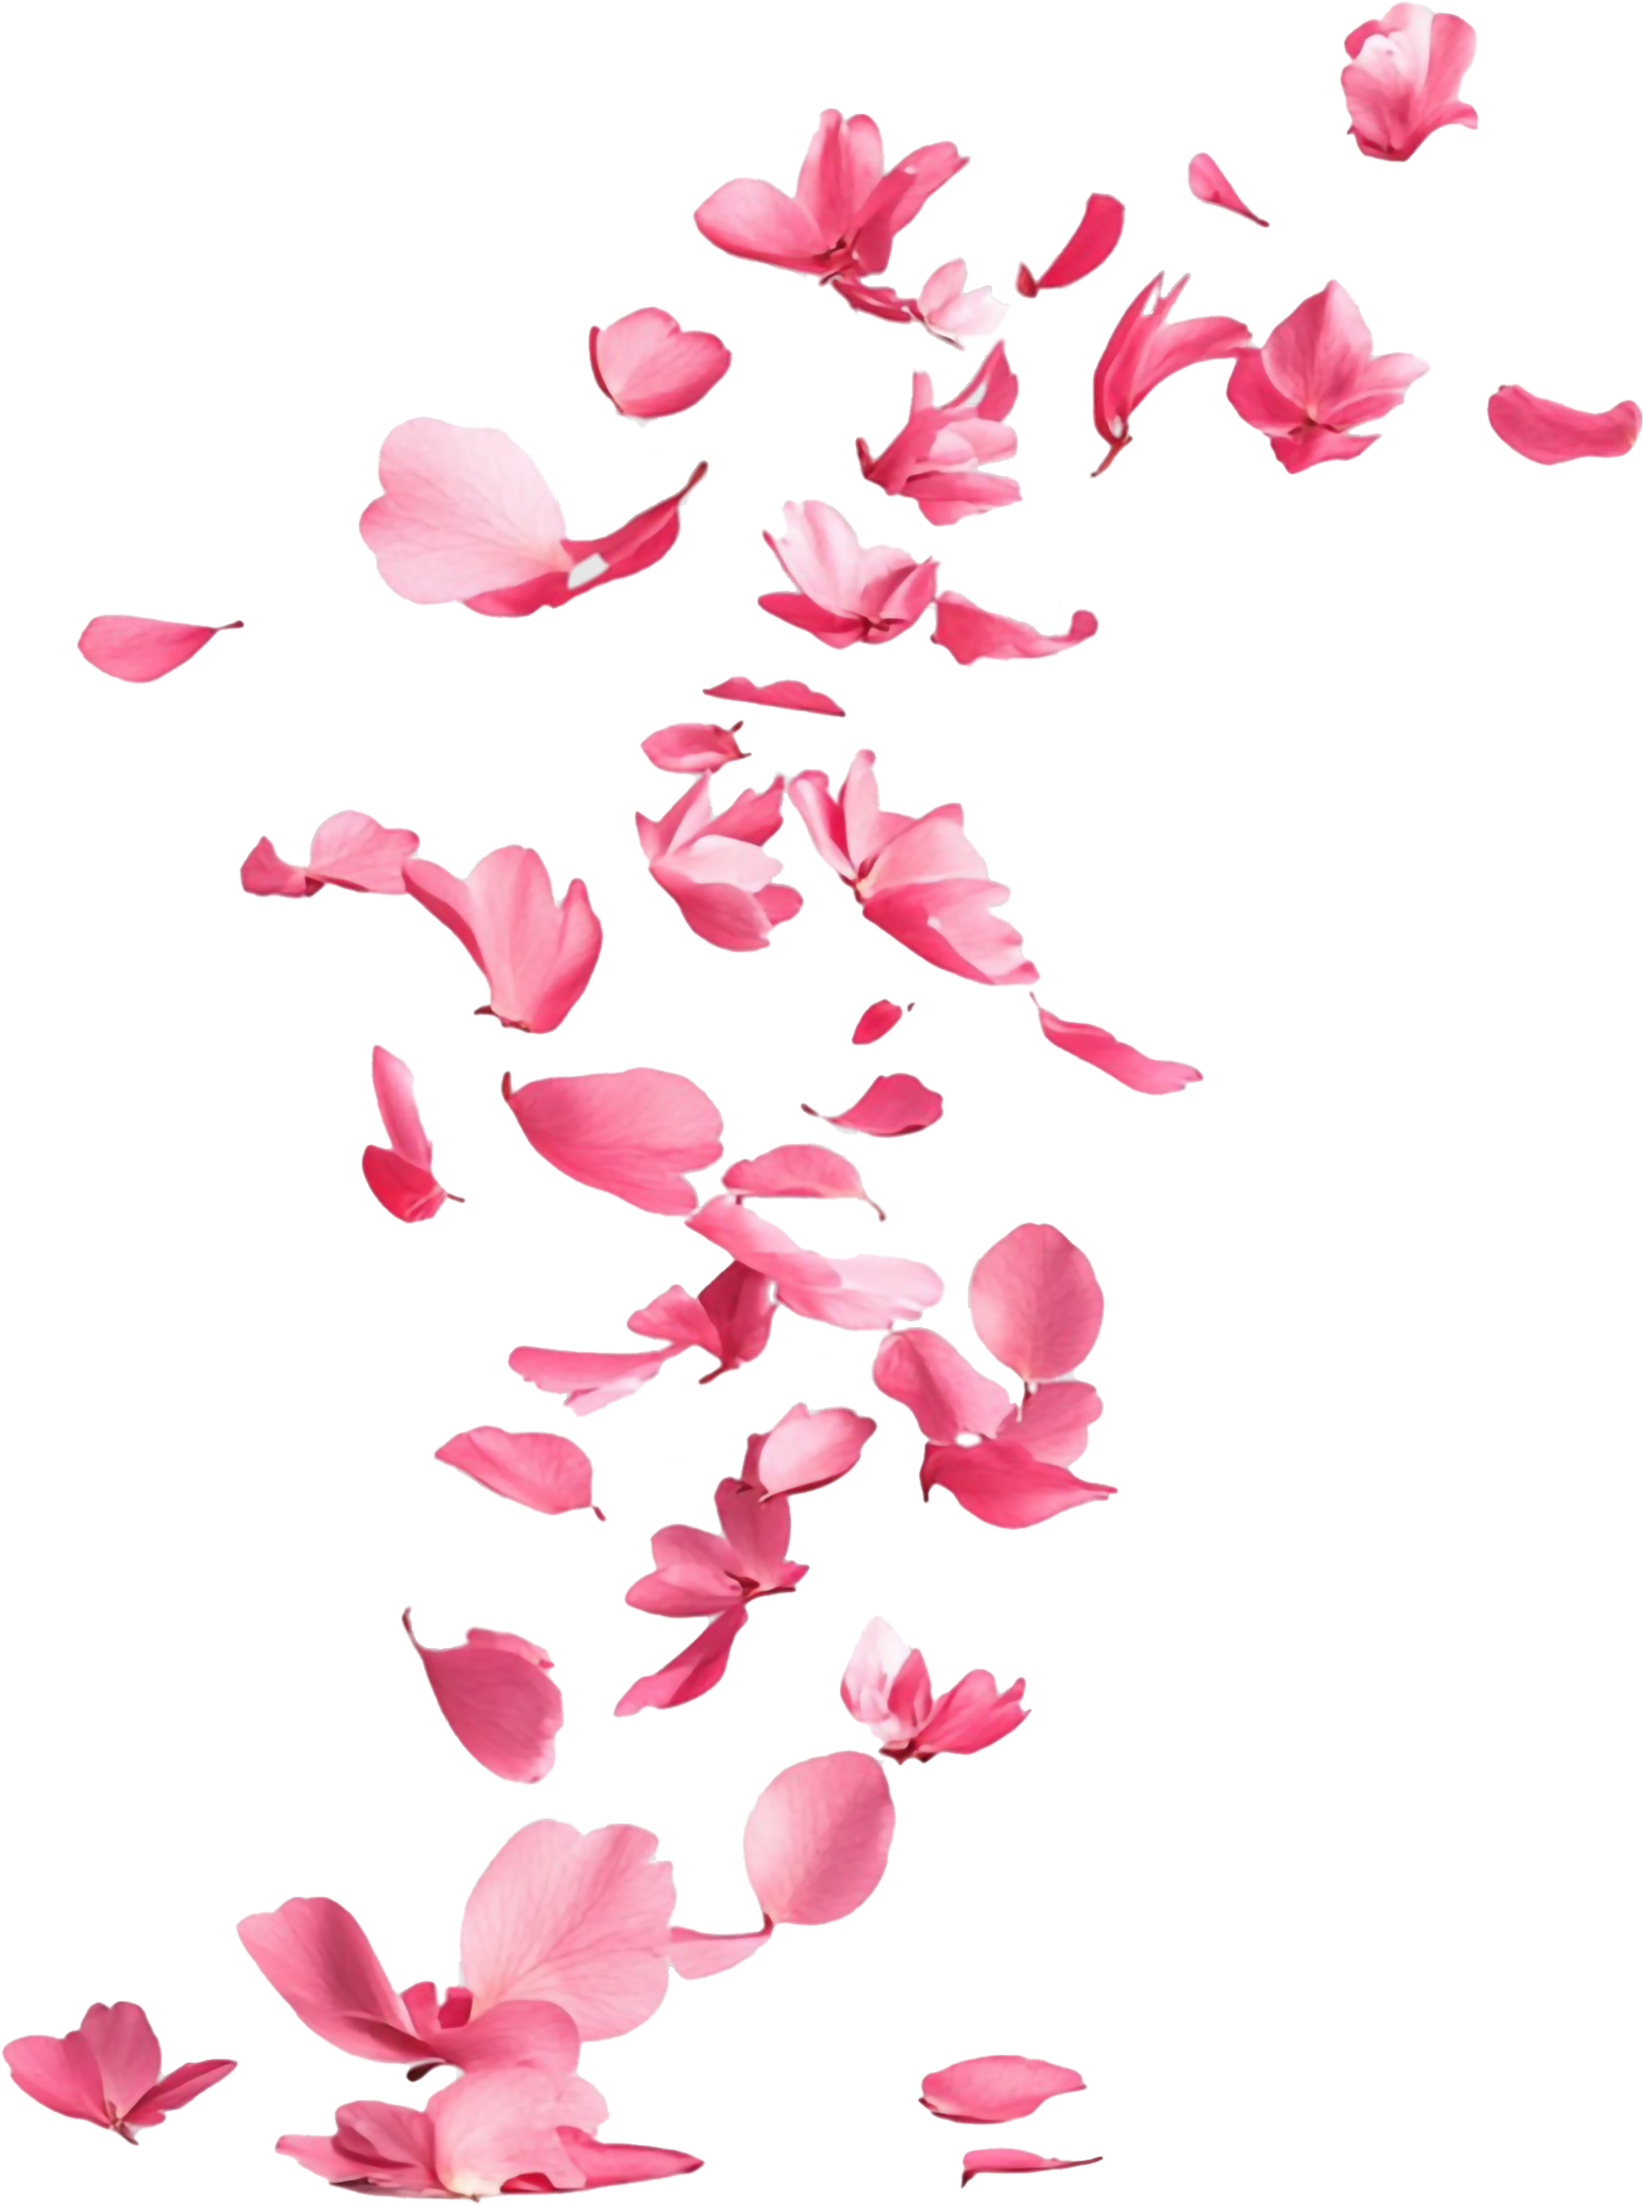
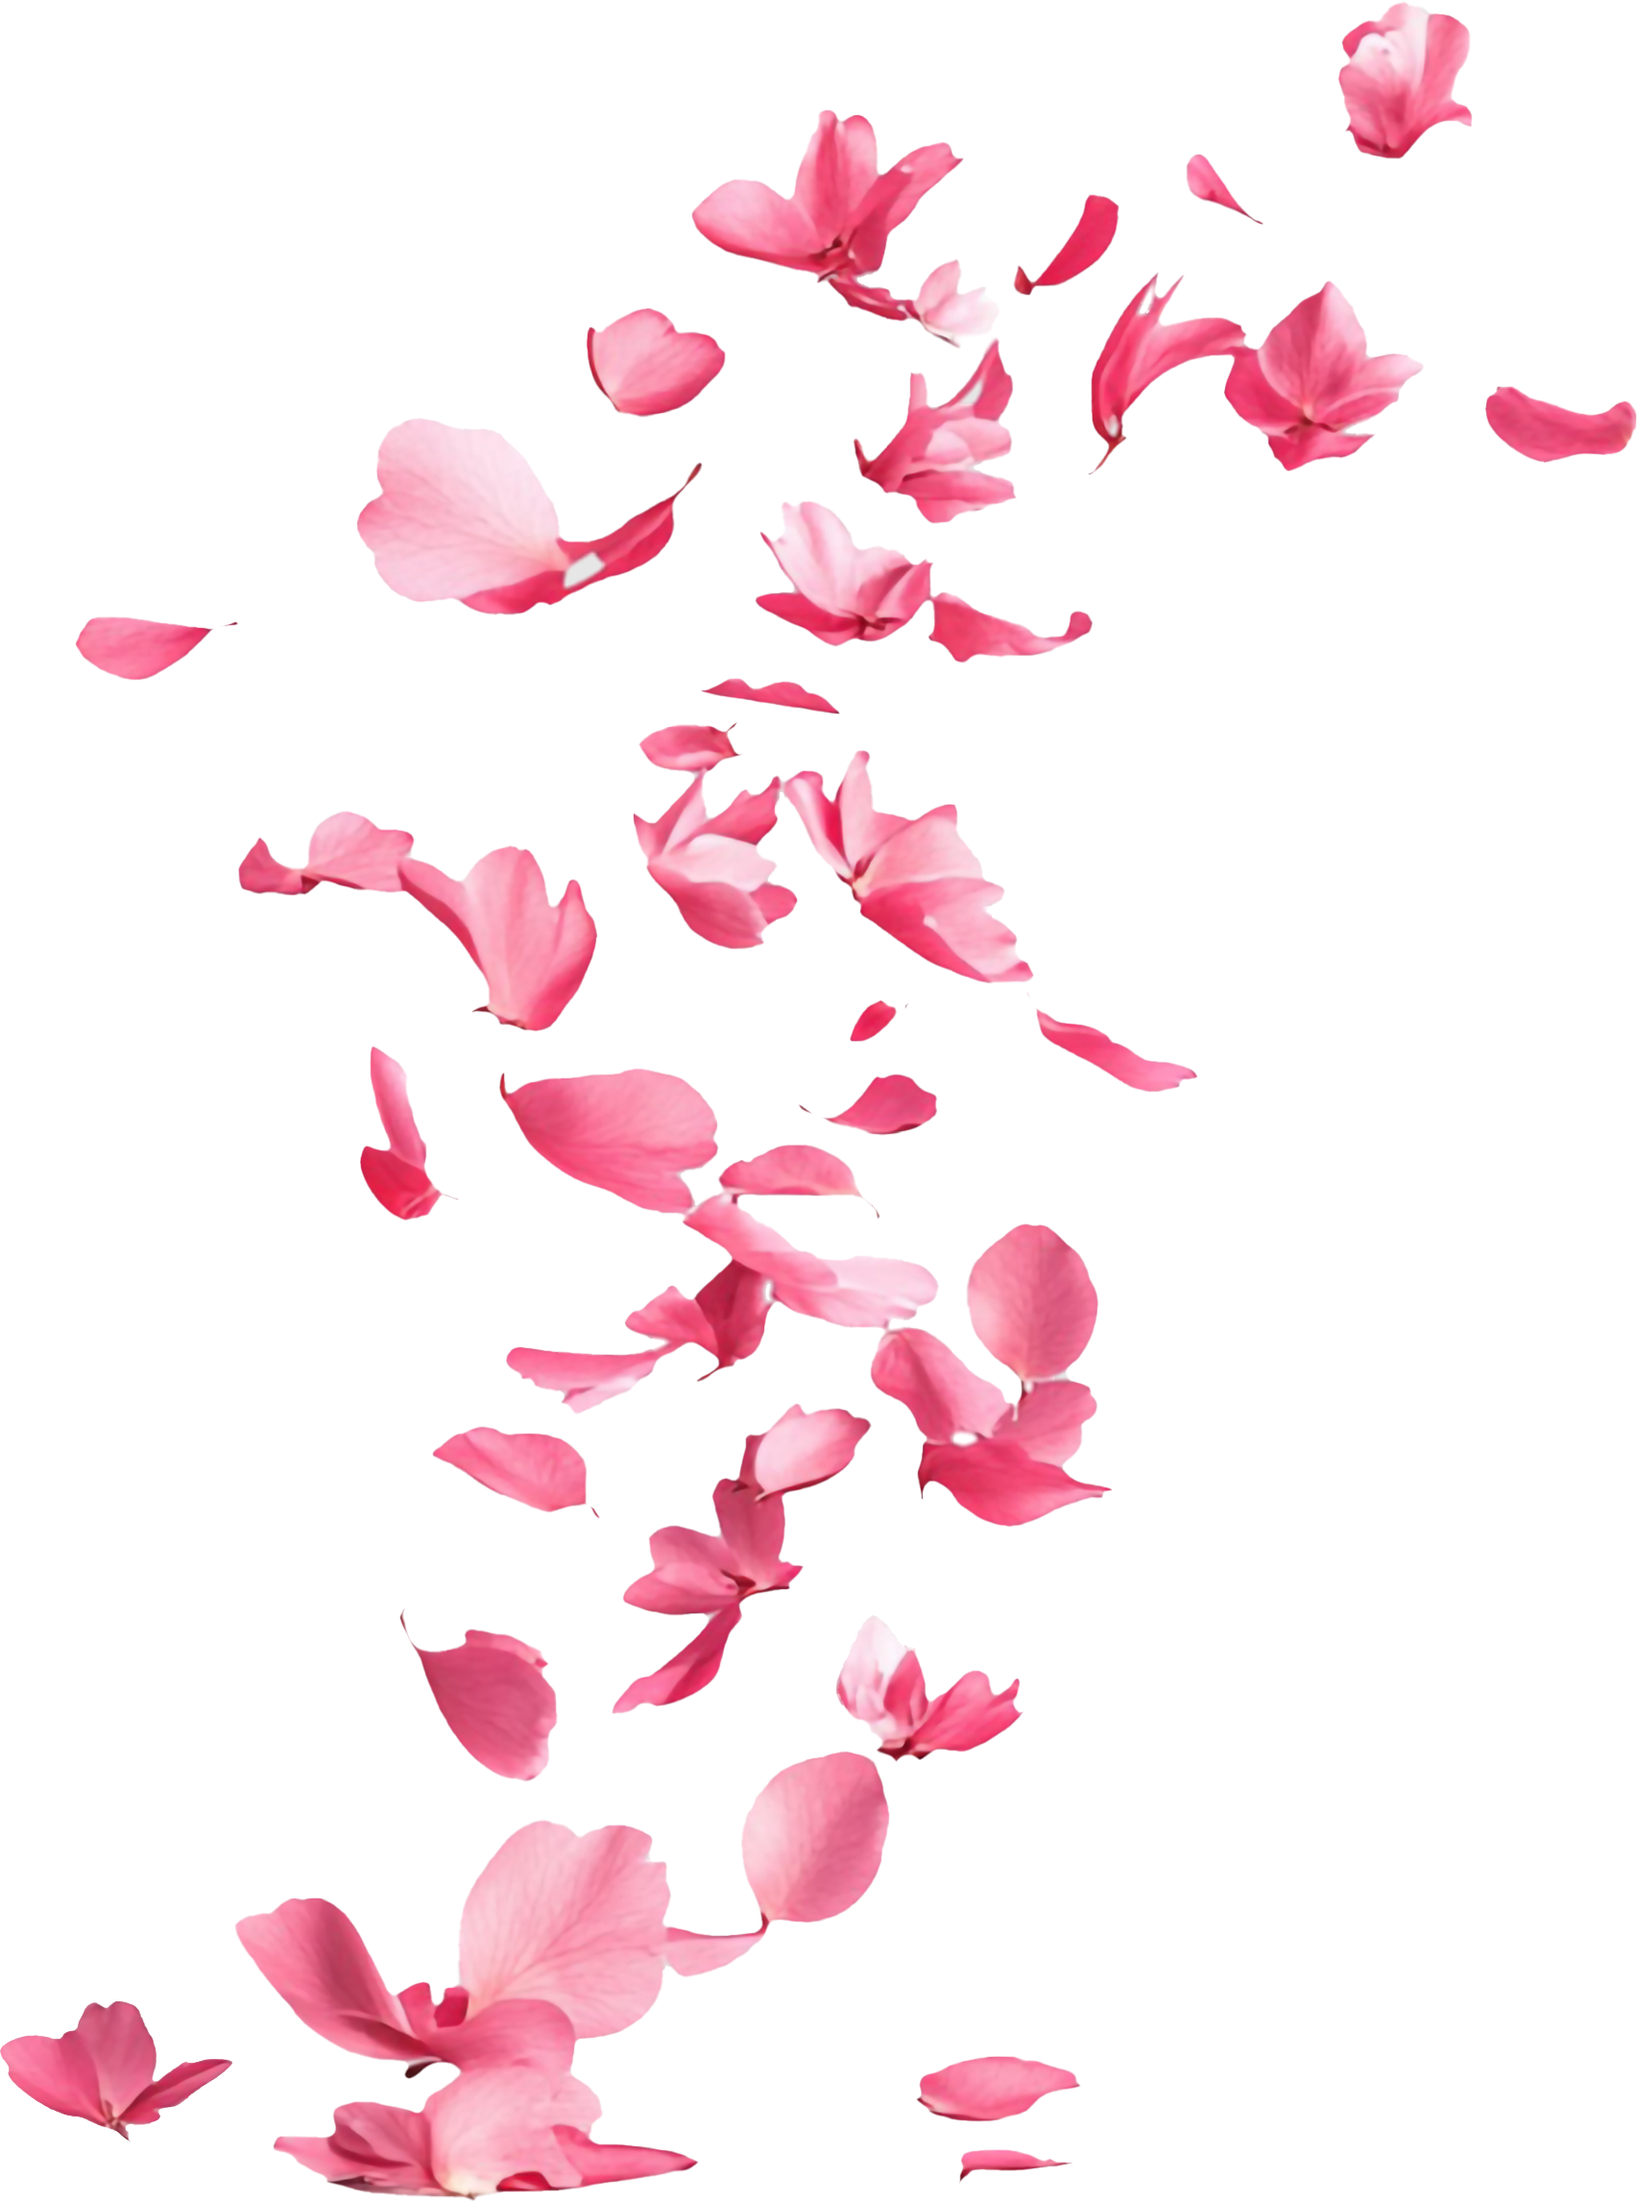
added background imagery and responsive design

diff --git a/src/app/page.tsx b/src/app/page.tsx
@@ -7,6 +7,7 @@ import mom from "./components/carrie_favorite_website.jpg";
 import petalsbg from "./components/adobestock_532705031.png";
 import petalsbg2 from "./components/adobestock_789829685.png";
 import Sunnyday from "./components/IMG_5889.jpeg";
+import fallingPetals from "./components/falling-petals.png";
 import sfembodiment from "./components/sf_highres.png";
 import { karma, Rhd } from "@/app/fonts";
 import AutoPlayVideo from "./components/AutoPlayVideo";
@@ -110,14 +111,14 @@ export default function Home() {
       <div className="relative pt-18 px-6 md:px-0">
         {/* Background Image */}
         <Image
-          className="absolute z-0 hidden"
-          src={petalsbg2}
+          className="absolute z-0 opacity-80 invisible md:visible"
+          src={fallingPetals}
           alt="bg2"
           height={1250}
           width={1250}
         />
         {/* Foreground Text */}
-        <h3 className="relative text-4xl text-center shadow-md z-10">
+        <h3 className="relative text-4xl text-center z-10">
           What We&apos;ll Do...
         </h3>
         <div className="relative text-3xl flex flex-col text-center lg:px-56 lg:gap-y-12 gap-y-4 pt-24 lg:pt-32 z-10">
